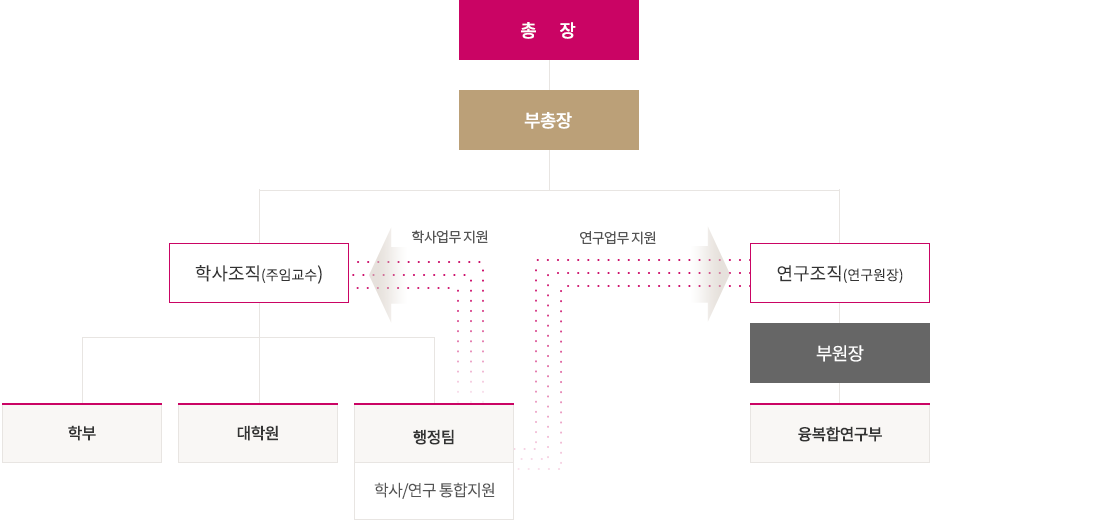
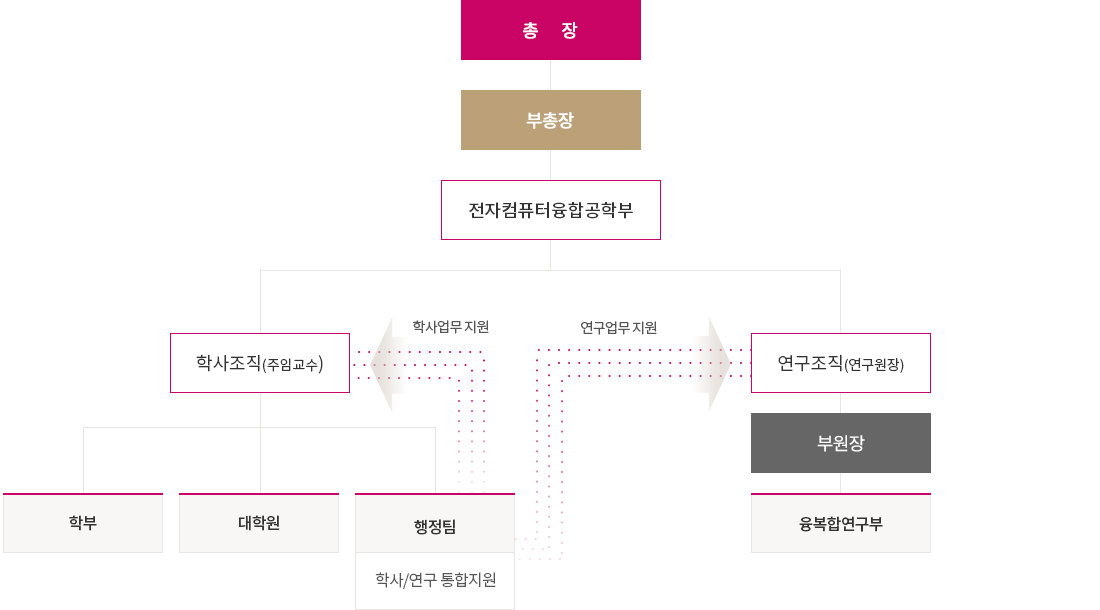
작업분 병합

diff --git a/kor/dev/css/ui.css b/kor/dev/css/ui.css
@@ -1308,17 +1308,16 @@ textarea {width:100%; line-height:1.5em; padding:10px 15px;}
 .greeting .cont_top .text_box p {font-size: 22px; line-height: 1.5em; color: #333; }
 .greeting .cont_bottom { padding-top: 155px; overflow: hidden;margin-bottom: 40px;}
 .greeting .cont_bottom .cont_img { float: left; background-image: url(../img/bg/bg_greeting_02.png); background-repeat: no-repeat; width: 40%; height: 638px; background-size: contain;}
-.greeting .cont_bottom .cont_text { position: relative; width: calc(60% - 40px); float: right;}
-.greeting .cont_bottom .cont_text:before { content: ""; position: absolute; width: 1px; height: 103px; background-color: #d5d5d5; left: 2px; top: -143px;}
-.greeting .cont_bottom .cont_text:after {content:""; position: absolute; width: 5px; height: 5px; background-color: #d5d5d5; left: 0; top: -143px; border-radius: 50px;}
-.greeting .cont_bottom .cont_text .cont_tit { font-size: 24px; line-height: 1.4em; color: #333; font-weight: 700; margin-bottom: 25px;}
-.greeting .cont_bottom .cont_text .text { font-size: 14px; line-height: 1.5em; color: #555; margin-bottom: 20px; }
-.greeting .cont_bottom .cont_text .text:last-child { margin-bottom: 0; }
-.greeting .sing_box { float: right;}
-.greeting .sing_box .sing_txt { float: left; padding: 30px 0;}
-.greeting .sing_box .sing_txt .txt{ font-size:16px; line-height: 1.5em; color:#555;  font-weight: 500;}
-.greeting .sing_box img { text-align: right; background-size: 144px 48px; width: 144px; height: 48px; margin-left: 20px;}
-
+.greeting .cont_bottom .cont_text {float:right; position:relative; width:calc(60% - 40px);}
+.greeting .cont_bottom .cont_text:before {position:absolute; top:-143px; left:2px; width:1px; height:103px; background-color:#d5d5d5; content:"";}
+.greeting .cont_bottom .cont_text:after {position:absolute; top:-143px; left:0; width:5px; height:5px; border-radius:50px; background-color:#d5d5d5; content:"";}
+.greeting .cont_bottom .cont_text .cont_tit {margin-bottom:25px; font-size:24px; font-weight:700; line-height:1.4em; color:#333;}
+.greeting .cont_bottom .cont_text .text {margin-bottom:20px; font-size:14px; line-height:1.5em; color:#555;}
+.greeting .cont_bottom .cont_text .text:last-child {margin-bottom:0;}
+.greeting .sign_box {float:right;}
+.greeting .sign_box .sign_txt {float:left; padding:30px 0;}
+.greeting .sign_box .sign_txt .txt {font-size:16px; font-weight:500; line-height:1.5em; color:#555;}
+.greeting .sign_box img {width:144px; height:48px; margin-left:20px; background-size:144px 48px; text-align:right;}
 
 @media (max-width:1024px) { 
     .greeting .cont_top { height: auto; margin-bottom: 30px; margin-top: 0;}
@@ -1334,9 +1333,9 @@ textarea {width:100%; line-height:1.5em; padding:10px 15px;}
     .greeting .cont_bottom .cont_text .cont_tit { font-size: 20px;} 
     .greeting .cont_bottom .cont_text .cont_tit br { display: none;}
 	.greeting .cont_bottom .cont_text .text { font-size: 12px;}
-	.greeting .sing_box .sing_txt { padding: 5px 0; }
-    .greeting .sing_box .sing_txt .txt { font-size: 12px; } 
-    .greeting .sing_box img {  background-size: 72px 24px; width: 72px; height: 24px;}
+	.greeting .sign_box .sign_txt { padding: 5px 0; }
+    .greeting .sign_box .sign_txt .txt { font-size: 12px; } 
+    .greeting .sign_box img {  background-size: 72px 24px; width: 72px; height: 24px;}
 }
 
 @media (max-width:599px) {
@@ -1382,7 +1381,7 @@ textarea {width:100%; line-height:1.5em; padding:10px 15px;}
 }
 
 /* 조직도 */
-.organ .chart {padding-top:47.28%; background:url(../img/bg/bg_organization.png) no-repeat top center; background-size:contain;}
+.organ .chart {padding-top:55.45%; background:url(../img/bg/bg_organization.png) no-repeat top center; background-size:contain;}
 .organ .chart ul {position:absolute; left:-9999px; top:-9999px; width:1px; height:1px;}
 
 @media (max-width:599px) {
@@ -1393,6 +1392,7 @@ textarea {width:100%; line-height:1.5em; padding:10px 15px;}
 	.organ .chart ul .person {color:#fff; border:0 !important;}
 	.organ .chart ul .edu {padding-right:8px;}
 	.organ .chart ul .research {padding-left:8px;}
+	.organ .chart ul .part {padding:0.5em; border:1px solid #ca0464; background:#fff; font-size:16px; font-weight:400; line-height:1.5em;}
 	.organ .chart .sub {overflow:hidden; position:relative; padding-top:15px;}
 	.organ .chart .sub:before {position:absolute; top:0; left:50%; width:50%; height:1px; margin-left:-25%; background:#ccc; content:"";}
 	.organ .chart .sub small {font-size:0.8em;}

diff --git a/kor/src/css/ui.css b/kor/src/css/ui.css
@@ -1308,17 +1308,16 @@ textarea {width:100%; line-height:1.5em; padding:10px 15px;}
 .greeting .cont_top .text_box p {font-size: 22px; line-height: 1.5em; color: #333; }
 .greeting .cont_bottom { padding-top: 155px; overflow: hidden;margin-bottom: 40px;}
 .greeting .cont_bottom .cont_img { float: left; background-image: url(../img/bg/bg_greeting_02.png); background-repeat: no-repeat; width: 40%; height: 638px; background-size: contain;}
-.greeting .cont_bottom .cont_text { position: relative; width: calc(60% - 40px); float: right;}
-.greeting .cont_bottom .cont_text:before { content: ""; position: absolute; width: 1px; height: 103px; background-color: #d5d5d5; left: 2px; top: -143px;}
-.greeting .cont_bottom .cont_text:after {content:""; position: absolute; width: 5px; height: 5px; background-color: #d5d5d5; left: 0; top: -143px; border-radius: 50px;}
-.greeting .cont_bottom .cont_text .cont_tit { font-size: 24px; line-height: 1.4em; color: #333; font-weight: 700; margin-bottom: 25px;}
-.greeting .cont_bottom .cont_text .text { font-size: 14px; line-height: 1.5em; color: #555; margin-bottom: 20px; }
-.greeting .cont_bottom .cont_text .text:last-child { margin-bottom: 0; }
-.greeting .sing_box { float: right;}
-.greeting .sing_box .sing_txt { float: left; padding: 30px 0;}
-.greeting .sing_box .sing_txt .txt{ font-size:16px; line-height: 1.5em; color:#555;  font-weight: 500;}
-.greeting .sing_box img { text-align: right; background-size: 144px 48px; width: 144px; height: 48px; margin-left: 20px;}
-
+.greeting .cont_bottom .cont_text {float:right; position:relative; width:calc(60% - 40px);}
+.greeting .cont_bottom .cont_text:before {position:absolute; top:-143px; left:2px; width:1px; height:103px; background-color:#d5d5d5; content:"";}
+.greeting .cont_bottom .cont_text:after {position:absolute; top:-143px; left:0; width:5px; height:5px; border-radius:50px; background-color:#d5d5d5; content:"";}
+.greeting .cont_bottom .cont_text .cont_tit {margin-bottom:25px; font-size:24px; font-weight:700; line-height:1.4em; color:#333;}
+.greeting .cont_bottom .cont_text .text {margin-bottom:20px; font-size:14px; line-height:1.5em; color:#555;}
+.greeting .cont_bottom .cont_text .text:last-child {margin-bottom:0;}
+.greeting .sign_box {float:right;}
+.greeting .sign_box .sign_txt {float:left; padding:30px 0;}
+.greeting .sign_box .sign_txt .txt {font-size:16px; font-weight:500; line-height:1.5em; color:#555;}
+.greeting .sign_box img {width:144px; height:48px; margin-left:20px; background-size:144px 48px; text-align:right;}
 
 @media (max-width:1024px) { 
     .greeting .cont_top { height: auto; margin-bottom: 30px; margin-top: 0;}
@@ -1334,9 +1333,9 @@ textarea {width:100%; line-height:1.5em; padding:10px 15px;}
     .greeting .cont_bottom .cont_text .cont_tit { font-size: 20px;} 
     .greeting .cont_bottom .cont_text .cont_tit br { display: none;}
 	.greeting .cont_bottom .cont_text .text { font-size: 12px;}
-	.greeting .sing_box .sing_txt { padding: 5px 0; }
-    .greeting .sing_box .sing_txt .txt { font-size: 12px; } 
-    .greeting .sing_box img {  background-size: 72px 24px; width: 72px; height: 24px;}
+	.greeting .sign_box .sign_txt { padding: 5px 0; }
+    .greeting .sign_box .sign_txt .txt { font-size: 12px; } 
+    .greeting .sign_box img {  background-size: 72px 24px; width: 72px; height: 24px;}
 }
 
 @media (max-width:599px) {
@@ -1382,7 +1381,7 @@ textarea {width:100%; line-height:1.5em; padding:10px 15px;}
 }
 
 /* 조직도 */
-.organ .chart {padding-top:47.28%; background:url(../img/bg/bg_organization.png) no-repeat top center; background-size:contain;}
+.organ .chart {padding-top:55.45%; background:url(../img/bg/bg_organization.png) no-repeat top center; background-size:contain;}
 .organ .chart ul {position:absolute; left:-9999px; top:-9999px; width:1px; height:1px;}
 
 @media (max-width:599px) {
@@ -1393,6 +1392,7 @@ textarea {width:100%; line-height:1.5em; padding:10px 15px;}
 	.organ .chart ul .person {color:#fff; border:0 !important;}
 	.organ .chart ul .edu {padding-right:8px;}
 	.organ .chart ul .research {padding-left:8px;}
+	.organ .chart ul .part {padding:0.5em; border:1px solid #ca0464; background:#fff; font-size:16px; font-weight:400; line-height:1.5em;}
 	.organ .chart .sub {overflow:hidden; position:relative; padding-top:15px;}
 	.organ .chart .sub:before {position:absolute; top:0; left:50%; width:50%; height:1px; margin-left:-25%; background:#ccc; content:"";}
 	.organ .chart .sub small {font-size:0.8em;}

diff --git a/kor/dev/html/grad_table.html b/kor/dev/html/grad_table.html
@@ -875,24 +875,24 @@
 
 					<!-- 교과목 링크 스크립트 -->
 					<script>
-						$(function() {
-							var header, target, position;
+						$(function () {
+					var header, target, position;
 
-							$(window).on('load resize', function() {
-								header = parseInt($('header').css('height'));
-							})
+					$(window).on('load resize', function () {
+						header = parseInt($('header').css('height'));
+					})
 
-							$('.grad_table [data-table] a').on('click', function(e) {
-								e.preventDefault();
-								target = $(this).attr('href');
-								position = $(target).offset().top - header;
-								$('html,body').animate({
-									"scrollTop": position
-								}, 500);
-								return false;
-							});
-						});
-					</script>
+					$('.grad_table [data-table] a').on('click', function (e) {
+						e.preventDefault();
+						target = $(this).attr('href');
+						position = $(target).offset().top - header;
+						$('html,body').animate({
+							"scrollTop": position
+						}, 500);
+						return false;
+					});
+				});
+			</script>
 					<!-- //교과목 링크 스크립트 -->
 
 				</div>

diff --git a/kor/dev/html/guide.html b/kor/dev/html/guide.html
@@ -192,15 +192,15 @@
 
 					<style>
 						.guide_tit {
-							margin: 1em 0;
-							padding-left: 1em;
-							background: #ca0464;
-							font-size: 14px;
-							font-weight: 700;
-							line-height: 2em;
-							color: #fff;
-						}
-					</style>
+					margin: 1em 0;
+					padding-left: 1em;
+					background: #ca0464;
+					font-size: 14px;
+					font-weight: 700;
+					line-height: 2em;
+					color: #fff;
+				}
+			</style>
 
 					<!-- 제목 -->
 					<p class="guide_tit">제목</p>
@@ -1217,12 +1217,12 @@
 					<p class="guide_tit">로딩</p>
 					<button onClick="show_loading();">로딩띄우기</button>
 					<script>
-						$(function() {
-							$('[data-loading]').on('click', function() {
-								$(this).hide();
-							});
-						});
-					</script>
+						$(function () {
+					$('[data-loading]').on('click', function () {
+						$(this).hide();
+					});
+				});
+			</script>
 					<!-- //로딩 -->
 
 					<!-- //컨텐츠 내용 -->

diff --git a/kor/dev/html/greeting.html b/kor/dev/html/greeting.html
@@ -199,11 +199,11 @@
 										</p>
 							</div>
 						</div>
-						<div class="sing_box">
-							<div class="sing_txt">
+						<div class="sign_box">
+							<div class="sign_txt">
 								<p class="txt">창의IT융합공학과 원장</p>
 							</div>
-							<img src="../img/img/img_greeting_02.png" alt="창의IT융합교육과 주임교수 강봉구 서명">
+							<img src="../img/img/img_greeting_02.png" alt="창의IT융합교육과 주임교수 한수희 서명">
 						</div>
 					</div>
 					<!-- //컨텐츠 내용 -->

diff --git a/kor/src/html/greeting.html b/kor/src/html/greeting.html
@@ -63,11 +63,11 @@
 						</p>
 					</div>
 				</div>
-				<div class="sing_box">
-					<div class="sing_txt">
+				<div class="sign_box">
+					<div class="sign_txt">
 						<p class="txt">창의IT융합공학과 원장</p>
 					</div>
-					<img src="../img/img/img_greeting_02.png" alt="창의IT융합교육과 주임교수 강봉구 서명">
+					<img src="../img/img/img_greeting_02.png" alt="창의IT융합교육과 주임교수 한수희 서명">
 				</div>
 			</div>
 			<!-- //컨텐츠 내용 -->

diff --git a/kor/dev/html/email_form.html b/kor/dev/html/email_form.html
@@ -1,4 +1,5 @@
-<!DOCTYPE html PUBLIC "-//W3C//DTD XHTML 1.0 Transitional//EN" "http://www.w3.org/TR/xhtml1/DTD/xhtml1-transitional.dtd">
+<!DOCTYPE html
+	PUBLIC "-//W3C//DTD XHTML 1.0 Transitional//EN" "http://www.w3.org/TR/xhtml1/DTD/xhtml1-transitional.dtd">
 <html xmlns="http://www.w3.org/1999/xhtml">
 
 <head>

diff --git a/kor/dev/html/organization.html b/kor/dev/html/organization.html
@@ -154,6 +154,7 @@
 							<ul>
 								<li class="person head president">총장</li>
 								<li class="person head vice">부총장</li>
+								<li class="head part">전자컴퓨터융합공학부</li>
 								<li>
 									<ul class="sub">
 										<li class="edu">

diff --git a/kor/src/html/organization.html b/kor/src/html/organization.html
@@ -18,6 +18,7 @@
 					<ul>
 						<li class="person head president">총장</li>
 						<li class="person head vice">부총장</li>
+						<li class="head part">전자컴퓨터융합공학부</li>
 						<li>
 							<ul class="sub">
 								<li class="edu">
